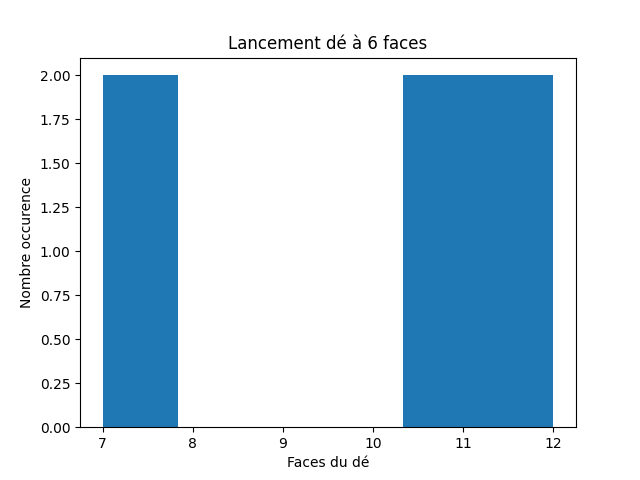
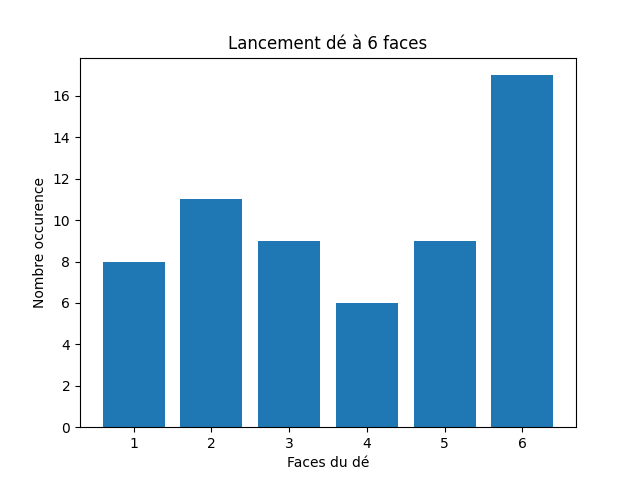
3/2/2024

diff --git a/STR/max.py b/STR/max.py
@@ -1,0 +1,37 @@
+#!/usr/bin/python3
+
+"""def maximum(list):
+
+    if len(list) == 0:
+        print("liste vide")
+        return
+
+
+    else:
+        max = list[0]
+        for number in list:
+            if number > max:
+                max = number
+        return max"""
+
+
+def maximum_r(liste):
+
+    if len(liste) == 0:
+
+        return 0
+
+    else:
+
+        max_rest = maximum_r(liste[1:])
+
+        if max_rest is None:
+            return liste[0]
+
+        return max(liste[0], max_rest)
+
+
+if __name__== "__main__":
+    liste = [1, 2, 77, 3, 1]
+    max = maximum_r(liste)
+    print(max)

diff --git a/STR/somme.py b/STR/somme.py
@@ -1,0 +1,18 @@
+#!/usr/bin/python3
+
+def somme(list):
+    sum = 0
+    if len(list) == 0:
+        print("liste vide")
+        return
+    else:
+        for number in list:
+            sum = sum + number
+        return sum
+
+#test
+
+if __name__=="__main__":
+    liste = [1, 2, 3, 3, 1]
+    somme_liste = somme(liste)
+    print(somme_liste)

diff --git a/STR/moy.py b/STR/moy.py
@@ -1,0 +1,18 @@
+#!/usr/bin/python3
+
+from somme import somme
+
+def moy(list):
+    if len(list) == 0:
+        print("liste vide")
+        return
+    else:
+        return(somme(list)//len(list))
+
+
+#test
+
+if __name__=="__main__":
+    liste = [1, 2, 3, 3, 1]
+    moyenne = moy(liste)
+    print(moyenne)

diff --git a/STR/generer.py b/STR/generer.py
@@ -47,7 +47,7 @@ print("\nNombre d'occurences de 6: " + str(compt5))
 x = [1,2,3,4,5,6]
 y= [compt0, compt1, compt2, compt3, compt4, compt5]
 
-plt.hist(y, bins=6)
+plt.bar(x, y)
 
 plt.xlabel('Faces du dé')
 plt.ylabel('Nombre occurence')
